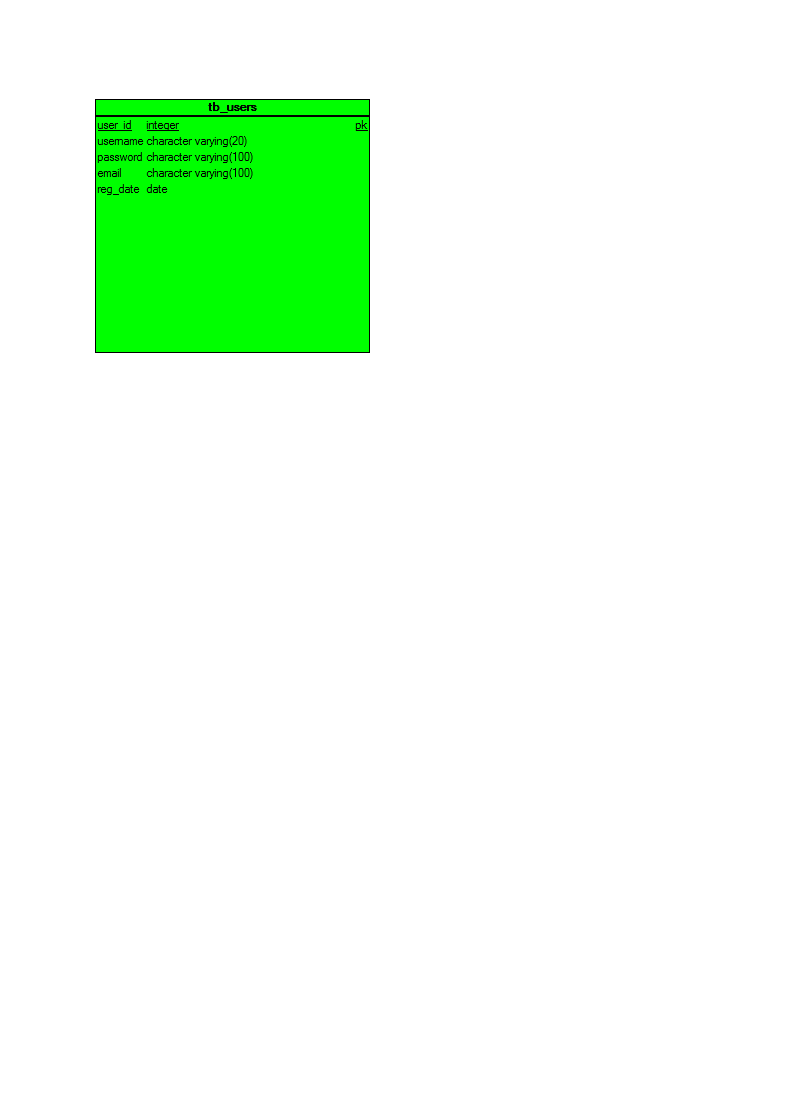
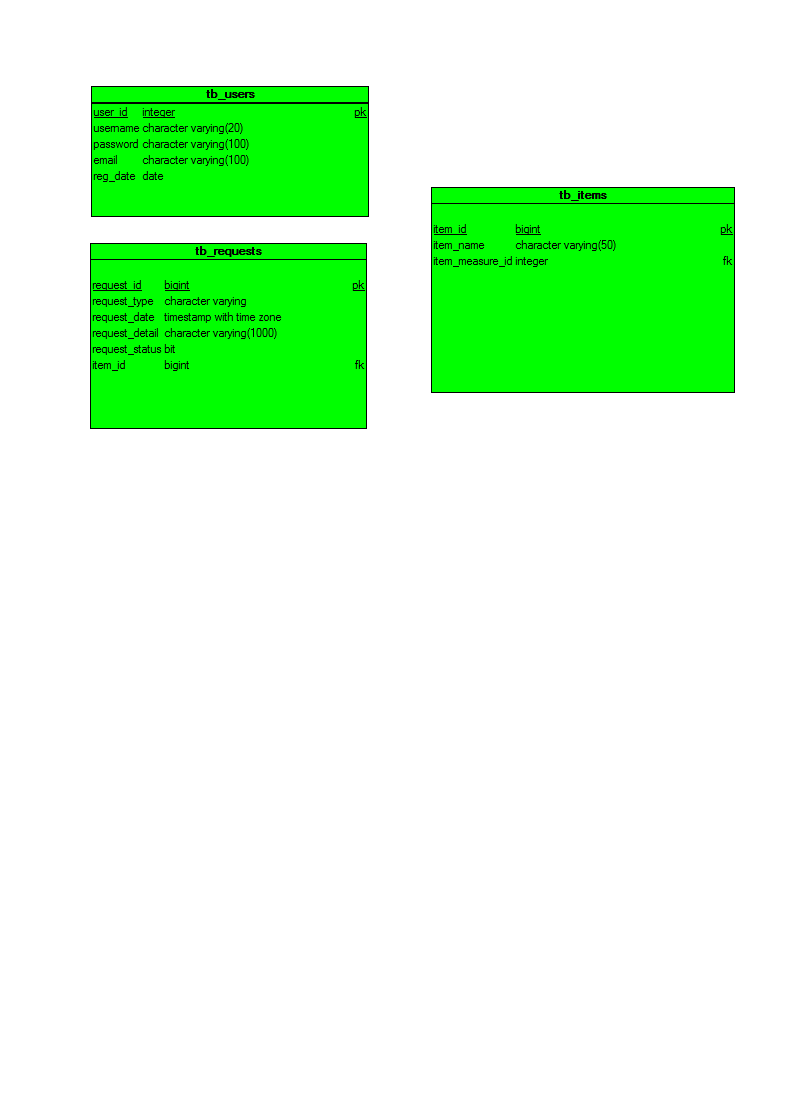
ERD addition

Changed region(s): [[0.0914, 0.0612, 0.4873, 0.3975], [0.5482, 0.1529, 0.9442, 0.3669]]

diff --git a/design/database/Browser.html b/design/database/Browser.html
@@ -56,6 +56,30 @@
 <A href="4F5ED20.html" TARGET=Main><img src="Blank16x16.png" border=0><img src="PGColumn.png" border=0>reg_date</A><br>
 </span>
 <A href="3739FE8.html" TARGET=Main><img src="Blank16x16.png" border=0><img src="MVCContainer.png" border=0>Inheritances</A><br>
+<div class="trigger" onclick="showBranch('branch4F5E880');swapFolder('folder4F5E880')">
+<A href="4F5E880.html" TARGET=Main><img src="Plus.png" border="0" id="folder4F5E880"><img src="PGTable.png" border=0>tb_requests</A>
+</div>
+<span class="branch" id="branch4F5E880" style="display: none;">
+<A href="4F5D4D8.html" TARGET=Main><img src="Blank16x16.png" border=0><img src="PGColumn.png" border=0></A><br>
+<A href="4F672A0.html" TARGET=Main><img src="Blank16x16.png" border=0><img src="MVCContainer.png" border=0>Columns</A><br>
+<A href="37D3528.html" TARGET=Main><img src="Blank16x16.png" border=0><img src="PGColumn.png" border=0>request_id</A><br>
+<A href="4F5D850.html" TARGET=Main><img src="Blank16x16.png" border=0><img src="PGColumn.png" border=0>request_type</A><br>
+<A href="37D38A0.html" TARGET=Main><img src="Blank16x16.png" border=0><img src="PGColumn.png" border=0>request_date</A><br>
+<A href="37D3088.html" TARGET=Main><img src="Blank16x16.png" border=0><img src="PGColumn.png" border=0>request_detail</A><br>
+<A href="37D3D40.html" TARGET=Main><img src="Blank16x16.png" border=0><img src="PGColumn.png" border=0>request_status</A><br>
+<A href="4F5EBF8.html" TARGET=Main><img src="Blank16x16.png" border=0><img src="PGColumn.png" border=0>item_id</A><br>
+</span>
+<div class="trigger" onclick="showBranch('branch37D3AF0');swapFolder('folder37D3AF0')">
+<A href="37D3AF0.html" TARGET=Main><img src="Plus.png" border="0" id="folder37D3AF0"><img src="PGTable.png" border=0>tb_items</A>
+</div>
+<span class="branch" id="branch37D3AF0" style="display: none;">
+<A href="4F5DE18.html" TARGET=Main><img src="Blank16x16.png" border=0><img src="PGColumn.png" border=0></A><br>
+<A href="4F68140.html" TARGET=Main><img src="Blank16x16.png" border=0><img src="MVCContainer.png" border=0>Columns</A><br>
+<A href="4F5D600.html" TARGET=Main><img src="Blank16x16.png" border=0><img src="PGColumn.png" border=0>item_id</A><br>
+<A href="4F5DCF0.html" TARGET=Main><img src="Blank16x16.png" border=0><img src="PGColumn.png" border=0>item_name</A><br>
+<A href="4F5E3E0.html" TARGET=Main><img src="Blank16x16.png" border=0><img src="PGColumn.png" border=0>item_measure_id</A><br>
+</span>
+<A href="4F679F0.html" TARGET=Main><img src="Blank16x16.png" border=0><img src="MVCContainer.png" border=0>References</A><br>
 </span>
 </BODY>
 </HTML>

diff --git a/design/database/37D3AF0.html b/design/database/37D3AF0.html
@@ -25,25 +25,15 @@
                                                 <TABLE cellpadding="2" cellspacing="2" border="0" width="100%">
                                                     <TBODY>
                                                     <TR>
-                                                        <TD valign="top" bgcolor="#ce000d"><FONT color="#ffffff"><B><FONT face="Helvetica, Arial, sans-serif">&nbsp;reg_date</FONT></B></FONT><BR>
+                                                        <TD valign="top" bgcolor="#ce000d"><FONT color="#ffffff"><B><FONT face="Helvetica, Arial, sans-serif">&nbsp;tb_items</FONT></B></FONT><BR>
                                                         </TD>
                                                     </TR>
                                                     </TBODY>
                                                 </TABLE>
                                                 <FONT face="Helvetica, Arial, sans-serif"><BR>
-<B>Description</B>
+<B>Comment</B>
 <BR><BR>
-<BR><BR>
-<B>Details</B><BR><BR>
-<TABLE BORDER="1">
-  <TR><TD>Data Type</TD><TD>date</TD></TR>
-  <TR><TD>Length</TD><TD></TD></TR>
-  <TR><TD>Decimals</TD><TD></TD></TR>
-  <TR><TD>Default</TD><TD></TD></TR>
-  <TR><TD>Primary Key</TD><TD><CENTER></CENTER></TD></TR>
-  <TR><TD>Foreign Key</TD><TD><CENTER></CENTER></TD></TR>
-  <TR><TD>Mandatory</TD><TD><CENTER><img src="CheckMark.png" border=0></CENTER></TD></TR>
-</TABLE>
+master items table<BR>
 <br>
                                                 </FONT>
                                                 <BR>

diff --git a/design/database/4F5E880.html b/design/database/4F5E880.html
@@ -25,25 +25,15 @@
                                                 <TABLE cellpadding="2" cellspacing="2" border="0" width="100%">
                                                     <TBODY>
                                                     <TR>
-                                                        <TD valign="top" bgcolor="#ce000d"><FONT color="#ffffff"><B><FONT face="Helvetica, Arial, sans-serif">&nbsp;reg_date</FONT></B></FONT><BR>
+                                                        <TD valign="top" bgcolor="#ce000d"><FONT color="#ffffff"><B><FONT face="Helvetica, Arial, sans-serif">&nbsp;tb_requests</FONT></B></FONT><BR>
                                                         </TD>
                                                     </TR>
                                                     </TBODY>
                                                 </TABLE>
                                                 <FONT face="Helvetica, Arial, sans-serif"><BR>
-<B>Description</B>
+<B>Comment</B>
 <BR><BR>
-<BR><BR>
-<B>Details</B><BR><BR>
-<TABLE BORDER="1">
-  <TR><TD>Data Type</TD><TD>date</TD></TR>
-  <TR><TD>Length</TD><TD></TD></TR>
-  <TR><TD>Decimals</TD><TD></TD></TR>
-  <TR><TD>Default</TD><TD></TD></TR>
-  <TR><TD>Primary Key</TD><TD><CENTER></CENTER></TD></TR>
-  <TR><TD>Foreign Key</TD><TD><CENTER></CENTER></TD></TR>
-  <TR><TD>Mandatory</TD><TD><CENTER><img src="CheckMark.png" border=0></CENTER></TD></TR>
-</TABLE>
+<BR>
 <br>
                                                 </FONT>
                                                 <BR>

diff --git a/design/database/4F679F0.html b/design/database/4F679F0.html
@@ -25,25 +25,15 @@
                                                 <TABLE cellpadding="2" cellspacing="2" border="0" width="100%">
                                                     <TBODY>
                                                     <TR>
-                                                        <TD valign="top" bgcolor="#ce000d"><FONT color="#ffffff"><B><FONT face="Helvetica, Arial, sans-serif">&nbsp;reg_date</FONT></B></FONT><BR>
+                                                        <TD valign="top" bgcolor="#ce000d"><FONT color="#ffffff"><B><FONT face="Helvetica, Arial, sans-serif">&nbsp;References</FONT></B></FONT><BR>
                                                         </TD>
                                                     </TR>
                                                     </TBODY>
                                                 </TABLE>
                                                 <FONT face="Helvetica, Arial, sans-serif"><BR>
-<B>Description</B>
+<B>Comment</B>
 <BR><BR>
-<BR><BR>
-<B>Details</B><BR><BR>
-<TABLE BORDER="1">
-  <TR><TD>Data Type</TD><TD>date</TD></TR>
-  <TR><TD>Length</TD><TD></TD></TR>
-  <TR><TD>Decimals</TD><TD></TD></TR>
-  <TR><TD>Default</TD><TD></TD></TR>
-  <TR><TD>Primary Key</TD><TD><CENTER></CENTER></TD></TR>
-  <TR><TD>Foreign Key</TD><TD><CENTER></CENTER></TD></TR>
-  <TR><TD>Mandatory</TD><TD><CENTER><img src="CheckMark.png" border=0></CENTER></TD></TR>
-</TABLE>
+<BR>
 <br>
                                                 </FONT>
                                                 <BR>

diff --git a/design/database/4F672A0.html b/design/database/4F672A0.html
@@ -25,25 +25,15 @@
                                                 <TABLE cellpadding="2" cellspacing="2" border="0" width="100%">
                                                     <TBODY>
                                                     <TR>
-                                                        <TD valign="top" bgcolor="#ce000d"><FONT color="#ffffff"><B><FONT face="Helvetica, Arial, sans-serif">&nbsp;reg_date</FONT></B></FONT><BR>
+                                                        <TD valign="top" bgcolor="#ce000d"><FONT color="#ffffff"><B><FONT face="Helvetica, Arial, sans-serif">&nbsp;Columns</FONT></B></FONT><BR>
                                                         </TD>
                                                     </TR>
                                                     </TBODY>
                                                 </TABLE>
                                                 <FONT face="Helvetica, Arial, sans-serif"><BR>
-<B>Description</B>
+<B>Comment</B>
 <BR><BR>
-<BR><BR>
-<B>Details</B><BR><BR>
-<TABLE BORDER="1">
-  <TR><TD>Data Type</TD><TD>date</TD></TR>
-  <TR><TD>Length</TD><TD></TD></TR>
-  <TR><TD>Decimals</TD><TD></TD></TR>
-  <TR><TD>Default</TD><TD></TD></TR>
-  <TR><TD>Primary Key</TD><TD><CENTER></CENTER></TD></TR>
-  <TR><TD>Foreign Key</TD><TD><CENTER></CENTER></TD></TR>
-  <TR><TD>Mandatory</TD><TD><CENTER><img src="CheckMark.png" border=0></CENTER></TD></TR>
-</TABLE>
+<BR>
 <br>
                                                 </FONT>
                                                 <BR>

diff --git a/design/database/4F68140.html b/design/database/4F68140.html
@@ -25,25 +25,15 @@
                                                 <TABLE cellpadding="2" cellspacing="2" border="0" width="100%">
                                                     <TBODY>
                                                     <TR>
-                                                        <TD valign="top" bgcolor="#ce000d"><FONT color="#ffffff"><B><FONT face="Helvetica, Arial, sans-serif">&nbsp;reg_date</FONT></B></FONT><BR>
+                                                        <TD valign="top" bgcolor="#ce000d"><FONT color="#ffffff"><B><FONT face="Helvetica, Arial, sans-serif">&nbsp;Columns</FONT></B></FONT><BR>
                                                         </TD>
                                                     </TR>
                                                     </TBODY>
                                                 </TABLE>
                                                 <FONT face="Helvetica, Arial, sans-serif"><BR>
-<B>Description</B>
+<B>Comment</B>
 <BR><BR>
-<BR><BR>
-<B>Details</B><BR><BR>
-<TABLE BORDER="1">
-  <TR><TD>Data Type</TD><TD>date</TD></TR>
-  <TR><TD>Length</TD><TD></TD></TR>
-  <TR><TD>Decimals</TD><TD></TD></TR>
-  <TR><TD>Default</TD><TD></TD></TR>
-  <TR><TD>Primary Key</TD><TD><CENTER></CENTER></TD></TR>
-  <TR><TD>Foreign Key</TD><TD><CENTER></CENTER></TD></TR>
-  <TR><TD>Mandatory</TD><TD><CENTER><img src="CheckMark.png" border=0></CENTER></TD></TR>
-</TABLE>
+<BR>
 <br>
                                                 </FONT>
                                                 <BR>

diff --git a/design/database/37D3528.html b/design/database/37D3528.html
@@ -25,7 +25,7 @@
                                                 <TABLE cellpadding="2" cellspacing="2" border="0" width="100%">
                                                     <TBODY>
                                                     <TR>
-                                                        <TD valign="top" bgcolor="#ce000d"><FONT color="#ffffff"><B><FONT face="Helvetica, Arial, sans-serif">&nbsp;reg_date</FONT></B></FONT><BR>
+                                                        <TD valign="top" bgcolor="#ce000d"><FONT color="#ffffff"><B><FONT face="Helvetica, Arial, sans-serif">&nbsp;request_id</FONT></B></FONT><BR>
                                                         </TD>
                                                     </TR>
                                                     </TBODY>
@@ -36,13 +36,13 @@
 <BR><BR>
 <B>Details</B><BR><BR>
 <TABLE BORDER="1">
-  <TR><TD>Data Type</TD><TD>date</TD></TR>
+  <TR><TD>Data Type</TD><TD>bigint</TD></TR>
   <TR><TD>Length</TD><TD></TD></TR>
   <TR><TD>Decimals</TD><TD></TD></TR>
   <TR><TD>Default</TD><TD></TD></TR>
-  <TR><TD>Primary Key</TD><TD><CENTER></CENTER></TD></TR>
+  <TR><TD>Primary Key</TD><TD><CENTER><img src="CheckMark.png" border=0></CENTER></TD></TR>
   <TR><TD>Foreign Key</TD><TD><CENTER></CENTER></TD></TR>
-  <TR><TD>Mandatory</TD><TD><CENTER><img src="CheckMark.png" border=0></CENTER></TD></TR>
+  <TR><TD>Mandatory</TD><TD><CENTER></CENTER></TD></TR>
 </TABLE>
 <br>
                                                 </FONT>

diff --git a/design/database/4F5D600.html b/design/database/4F5D600.html
@@ -25,7 +25,7 @@
                                                 <TABLE cellpadding="2" cellspacing="2" border="0" width="100%">
                                                     <TBODY>
                                                     <TR>
-                                                        <TD valign="top" bgcolor="#ce000d"><FONT color="#ffffff"><B><FONT face="Helvetica, Arial, sans-serif">&nbsp;reg_date</FONT></B></FONT><BR>
+                                                        <TD valign="top" bgcolor="#ce000d"><FONT color="#ffffff"><B><FONT face="Helvetica, Arial, sans-serif">&nbsp;item_id</FONT></B></FONT><BR>
                                                         </TD>
                                                     </TR>
                                                     </TBODY>
@@ -36,13 +36,13 @@
 <BR><BR>
 <B>Details</B><BR><BR>
 <TABLE BORDER="1">
-  <TR><TD>Data Type</TD><TD>date</TD></TR>
+  <TR><TD>Data Type</TD><TD>bigint</TD></TR>
   <TR><TD>Length</TD><TD></TD></TR>
   <TR><TD>Decimals</TD><TD></TD></TR>
   <TR><TD>Default</TD><TD></TD></TR>
-  <TR><TD>Primary Key</TD><TD><CENTER></CENTER></TD></TR>
+  <TR><TD>Primary Key</TD><TD><CENTER><img src="CheckMark.png" border=0></CENTER></TD></TR>
   <TR><TD>Foreign Key</TD><TD><CENTER></CENTER></TD></TR>
-  <TR><TD>Mandatory</TD><TD><CENTER><img src="CheckMark.png" border=0></CENTER></TD></TR>
+  <TR><TD>Mandatory</TD><TD><CENTER></CENTER></TD></TR>
 </TABLE>
 <br>
                                                 </FONT>

diff --git a/design/database/4F5E3E0.html b/design/database/4F5E3E0.html
@@ -25,7 +25,7 @@
                                                 <TABLE cellpadding="2" cellspacing="2" border="0" width="100%">
                                                     <TBODY>
                                                     <TR>
-                                                        <TD valign="top" bgcolor="#ce000d"><FONT color="#ffffff"><B><FONT face="Helvetica, Arial, sans-serif">&nbsp;reg_date</FONT></B></FONT><BR>
+                                                        <TD valign="top" bgcolor="#ce000d"><FONT color="#ffffff"><B><FONT face="Helvetica, Arial, sans-serif">&nbsp;item_measure_id</FONT></B></FONT><BR>
                                                         </TD>
                                                     </TR>
                                                     </TBODY>
@@ -36,12 +36,12 @@
 <BR><BR>
 <B>Details</B><BR><BR>
 <TABLE BORDER="1">
-  <TR><TD>Data Type</TD><TD>date</TD></TR>
+  <TR><TD>Data Type</TD><TD>integer</TD></TR>
   <TR><TD>Length</TD><TD></TD></TR>
   <TR><TD>Decimals</TD><TD></TD></TR>
   <TR><TD>Default</TD><TD></TD></TR>
   <TR><TD>Primary Key</TD><TD><CENTER></CENTER></TD></TR>
-  <TR><TD>Foreign Key</TD><TD><CENTER></CENTER></TD></TR>
+  <TR><TD>Foreign Key</TD><TD><CENTER><img src="CheckMark.png" border=0></CENTER></TD></TR>
   <TR><TD>Mandatory</TD><TD><CENTER><img src="CheckMark.png" border=0></CENTER></TD></TR>
 </TABLE>
 <br>

diff --git a/design/database/4F5D4D8.html b/design/database/4F5D4D8.html
@@ -25,7 +25,7 @@
                                                 <TABLE cellpadding="2" cellspacing="2" border="0" width="100%">
                                                     <TBODY>
                                                     <TR>
-                                                        <TD valign="top" bgcolor="#ce000d"><FONT color="#ffffff"><B><FONT face="Helvetica, Arial, sans-serif">&nbsp;reg_date</FONT></B></FONT><BR>
+                                                        <TD valign="top" bgcolor="#ce000d"><FONT color="#ffffff"><B><FONT face="Helvetica, Arial, sans-serif">&nbsp;</FONT></B></FONT><BR>
                                                         </TD>
                                                     </TR>
                                                     </TBODY>
@@ -36,13 +36,13 @@
 <BR><BR>
 <B>Details</B><BR><BR>
 <TABLE BORDER="1">
-  <TR><TD>Data Type</TD><TD>date</TD></TR>
+  <TR><TD>Data Type</TD><TD></TD></TR>
   <TR><TD>Length</TD><TD></TD></TR>
   <TR><TD>Decimals</TD><TD></TD></TR>
   <TR><TD>Default</TD><TD></TD></TR>
   <TR><TD>Primary Key</TD><TD><CENTER></CENTER></TD></TR>
   <TR><TD>Foreign Key</TD><TD><CENTER></CENTER></TD></TR>
-  <TR><TD>Mandatory</TD><TD><CENTER><img src="CheckMark.png" border=0></CENTER></TD></TR>
+  <TR><TD>Mandatory</TD><TD><CENTER></CENTER></TD></TR>
 </TABLE>
 <br>
                                                 </FONT>

diff --git a/design/database/4F5DE18.html b/design/database/4F5DE18.html
@@ -25,7 +25,7 @@
                                                 <TABLE cellpadding="2" cellspacing="2" border="0" width="100%">
                                                     <TBODY>
                                                     <TR>
-                                                        <TD valign="top" bgcolor="#ce000d"><FONT color="#ffffff"><B><FONT face="Helvetica, Arial, sans-serif">&nbsp;reg_date</FONT></B></FONT><BR>
+                                                        <TD valign="top" bgcolor="#ce000d"><FONT color="#ffffff"><B><FONT face="Helvetica, Arial, sans-serif">&nbsp;</FONT></B></FONT><BR>
                                                         </TD>
                                                     </TR>
                                                     </TBODY>
@@ -36,13 +36,13 @@
 <BR><BR>
 <B>Details</B><BR><BR>
 <TABLE BORDER="1">
-  <TR><TD>Data Type</TD><TD>date</TD></TR>
+  <TR><TD>Data Type</TD><TD></TD></TR>
   <TR><TD>Length</TD><TD></TD></TR>
   <TR><TD>Decimals</TD><TD></TD></TR>
   <TR><TD>Default</TD><TD></TD></TR>
   <TR><TD>Primary Key</TD><TD><CENTER></CENTER></TD></TR>
   <TR><TD>Foreign Key</TD><TD><CENTER></CENTER></TD></TR>
-  <TR><TD>Mandatory</TD><TD><CENTER><img src="CheckMark.png" border=0></CENTER></TD></TR>
+  <TR><TD>Mandatory</TD><TD><CENTER></CENTER></TD></TR>
 </TABLE>
 <br>
                                                 </FONT>

diff --git a/design/database/4F5EBF8.html b/design/database/4F5EBF8.html
@@ -25,7 +25,7 @@
                                                 <TABLE cellpadding="2" cellspacing="2" border="0" width="100%">
                                                     <TBODY>
                                                     <TR>
-                                                        <TD valign="top" bgcolor="#ce000d"><FONT color="#ffffff"><B><FONT face="Helvetica, Arial, sans-serif">&nbsp;reg_date</FONT></B></FONT><BR>
+                                                        <TD valign="top" bgcolor="#ce000d"><FONT color="#ffffff"><B><FONT face="Helvetica, Arial, sans-serif">&nbsp;item_id</FONT></B></FONT><BR>
                                                         </TD>
                                                     </TR>
                                                     </TBODY>
@@ -36,12 +36,12 @@
 <BR><BR>
 <B>Details</B><BR><BR>
 <TABLE BORDER="1">
-  <TR><TD>Data Type</TD><TD>date</TD></TR>
+  <TR><TD>Data Type</TD><TD>bigint</TD></TR>
   <TR><TD>Length</TD><TD></TD></TR>
   <TR><TD>Decimals</TD><TD></TD></TR>
   <TR><TD>Default</TD><TD></TD></TR>
   <TR><TD>Primary Key</TD><TD><CENTER></CENTER></TD></TR>
-  <TR><TD>Foreign Key</TD><TD><CENTER></CENTER></TD></TR>
+  <TR><TD>Foreign Key</TD><TD><CENTER><img src="CheckMark.png" border=0></CENTER></TD></TR>
   <TR><TD>Mandatory</TD><TD><CENTER><img src="CheckMark.png" border=0></CENTER></TD></TR>
 </TABLE>
 <br>
